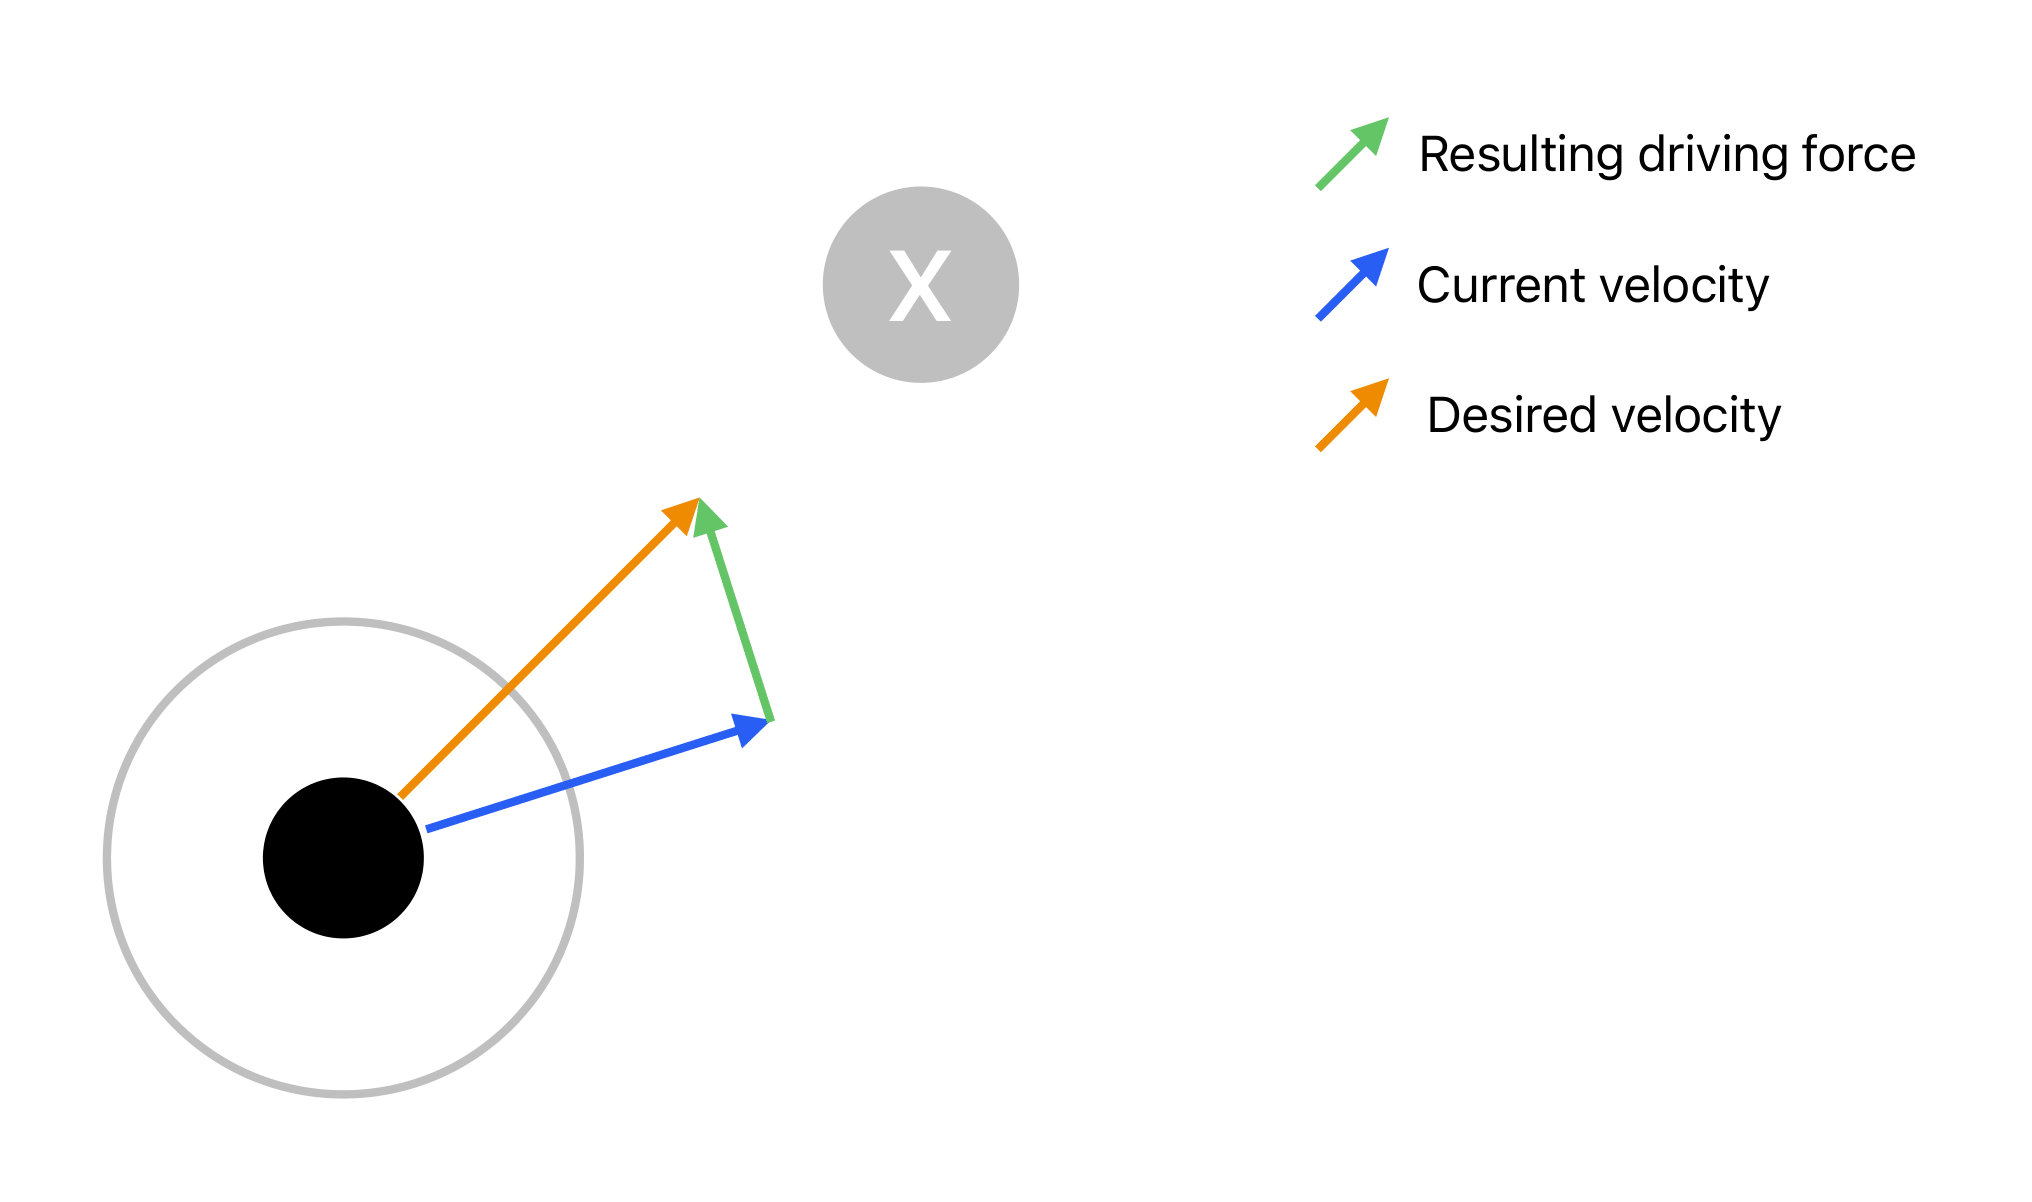
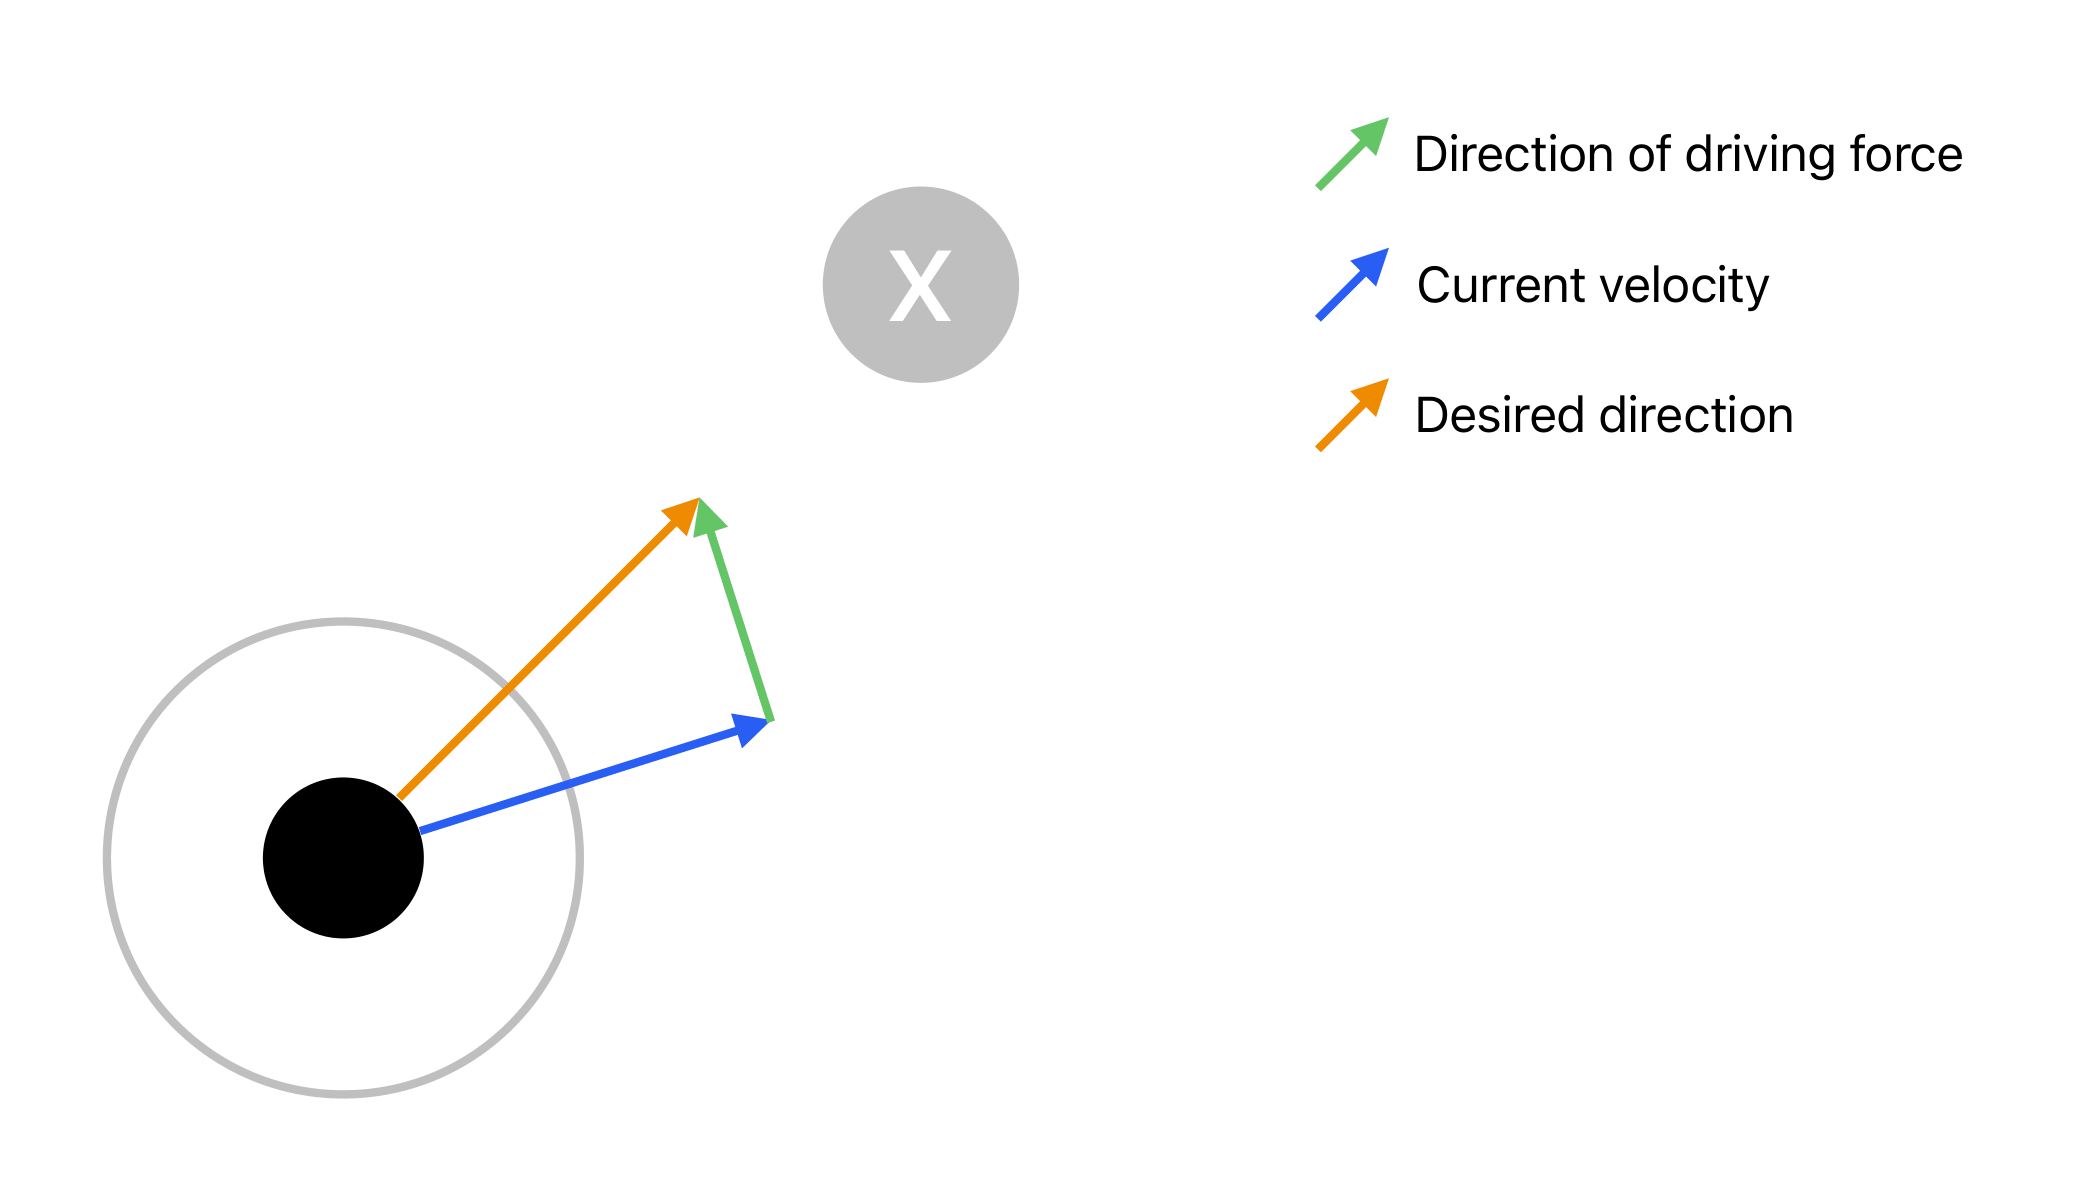
changes to Social force description

diff --git a/content/models/social_force_model/index.md b/content/models/social_force_model/index.md
@@ -25,13 +25,13 @@ $$ \overrightarrow{F_i^{\mathrm{drv}}}=\frac{v_i^0\overrightarrow{e_i^0} - \over
 {{< figure src="Driving_Force.png" caption="Driving Force acting on an agent." width="500" >}}
 
 In the figure above, the black dot represents an agent. Its radius is represented by the gray circle around it. The desired velocity ($v_i^0 \overrightarrow{e_i^0}$) is as big as its desired speed and is pointing in the desired direction towards a destination indicated by an X.
-The driving force of the agent results from the difference between the desired velocity and the current velocity.
+The driving force of the agent results from the difference between the desired velocity and the current velocity divided by $\tau$.
 
 
 ## Repulsive force
 Agents exert an exponentially increasing repulsive force on each other as their proximity decreases. Upon collision, not only do the pushing forces intensify further, but a frictional force also arises. This frictional force acts perpendicularly to the repulsive force, aligning with the direction of the difference in speed
 
-$$ \overrightarrow{F\_i^{\mathrm{rep}}} = \sum_{j} \overrightarrow{f_{ij}}$$
+$$ \overrightarrow{F\_i^{\mathrm{rep}}} = \sum_{j} \overrightarrow{f_{ij}}\text{.}$$
 
 $$\overrightarrow{f_{ij}} = [A_i \exp[(r_{ij} - d_{ij})/B_i] + kg(r_{ij} - d_{ij})] \overrightarrow{n_{ij}} + \kappa g(r_{ij} - d_{ij}) \Delta v\_{ji}^t \overrightarrow{t_{ij}} \text{.}$$
 
@@ -42,7 +42,7 @@ $$\phantom{......}\fbox{\phantom{.................} pushing \phantom{...........
 * $d_{ij}$ is the distance between $i$ and $j$
 * $A_i$, $B_i$, $k$ and $\kappa$ are constants (see [default values](#Default_values))
 * $g$  represents the distance between pedestrians when they are in contact, and is zero when there is no contact. 
-$g(x) =  \begin{cases} x \text{ if } x > 0 \\ \text{ else } 0 \end{cases}$
+$g(x)~=~\begin{cases} x \text{ if } x > 0 \\ \text{ else } 0 \end{cases}$
 * $ \overrightarrow{n_{ij}} = (n\_{ij}^1, n\_{ij}^2) = (\overrightarrow{\mathrm{pos}\_i} - \overrightarrow{\mathrm{pos}\_j})/d\_{ij} $ is the normalised vector from $j$ to $i$ 
 * $ \overrightarrow{t_{ij}} = (- n\_{ij}^2, n\_{ij}^1)$ is the tangent of $\overrightarrow{n_{ij}}$ which is perpendicular to it, rotated counterclockwise
 * $\Delta v\_{ji}^t = (\overrightarrow{v\_j} - \overrightarrow{v\_i}) \cdot \overrightarrow{t_{ij}}$ is the tangential velocity difference of $i$ and $j$
@@ -60,21 +60,21 @@ Obstacles exert a force on the agent similar to a static agent.
 Each line segment of an obstacle exerts force on the agent.
 The repulsive force is increases exponentially with decreasing distance. When the agent collides with the segment the repulsive forces are increased additionally. When colliding, a frictional force also occurs, which acts orthogonally to the repulsive force in the direction to the velocity of the agent
 
-$$ \overrightarrow{F\_i^{\mathrm{obst}}} = \sum_{O} \overrightarrow{f_{iO}}$$
+$$ \overrightarrow{F\_i^{\mathrm{obst}}} = \sum_{o} \overrightarrow{f_{io}\text{.}}$$
 
-$$\overrightarrow{f_{iO}} = [A_i \exp[(r_{i} - d_{iO})/B_i] + kg(r_{i} - d_{iO})] \overrightarrow{n_{iO}} + \kappa g(r_{i} - d_{iO}) (\overrightarrow{v\_{i}}\cdot\overrightarrow{t_{iO}}) \overrightarrow{t_{iO}} \text{.}$$
+$$\overrightarrow{f_{io}} = [A_i \exp[(r_{i} - d_{io})/B_i] + kg(r_{i} - d_{io})] \overrightarrow{n_{io}} + \kappa g(r_{i} - d_{io}) (\overrightarrow{v\_{i}}\cdot\overrightarrow{t_{io}}) \overrightarrow{t_{io}} \text{.}$$
 
 $$\phantom{.........}\fbox{\phantom{..................} pushing \phantom{.................}} \fbox{\phantom{..........} sliding \phantom{..........}}$$
 
-* $O$ is a segment of the obstacle
+* $o$ is a segment of the obstacle
 * $r_i$ is the radius agent $i$
-* $d_{iO}$ is distance from closest point on the segement to $i$
-* $\overrightarrow{n_{iO}} = (n\_{iO}^1, n\_{iO}^2) = (\overrightarrow{\mathrm{pos}\_i} - \overrightarrow{\mathrm{pos}\_O})/d\_{iO}$ the direction from $\overrightarrow{\mathrm{pos}\_O}$ the closest point on the segment to $i$
-* $ \overrightarrow{t_{iO}} = (- n\_{iO}^2, n\_{iO}^1)$ is the tangent of $\overrightarrow{n_{iO}}$ which is perpendicular to it, rotated counterclockwise
+* $d_{io}$ is distance from closest point on the segement to $i$
+* $\overrightarrow{n_{io}} = (n\_{io}^1, n\_{io}^2) = (\overrightarrow{\mathrm{pos}\_i} - \overrightarrow{\mathrm{pos}\_o})/d\_{io}$ the direction from $\overrightarrow{\mathrm{pos}\_o}$ the closest point on the segment to $i$
+* $ \overrightarrow{t_{io}} = (- n\_{io}^2, n\_{io}^1)$ is the tangent of $\overrightarrow{n_{io}}$ which is perpendicular to it, rotated counterclockwise
 * $v\_i$ is the velocity of $i$
 * $A_i$, $B_i$, $k$ and $\kappa$ are constants (see [default values](#Default_values))
 * $g$ represents the distance between a pedestrian and an obstacle segment when they are in contact, and is zero when there is no contact. 
- $g(x) =  \begin{cases}
+ $g(x)~=~\begin{cases}
                                       x \text{ if } x > 0 \\
                                       \text{ else } 0
                                   \end{cases}$
@@ -84,9 +84,9 @@ $$\phantom{.........}\fbox{\phantom{..................} pushing \phantom{.......
 
 the repulsive force originating from a segment of an obstacle acts from the point on the wall segment that is closest to the agent. This point is marked in magenta in the illustration above.
 
-{{< figure src="Sliding_Obstacle_Force.png" caption="Direction of the pushing and frictional forces acting on agents colliding with an obstacle segment"  width="800">}}
+{{< figure src="Sliding_Obstacle_Force.png" caption="Direction of the pushing and frictional forces acting on agents colliding with an obstacle segment."  width="800">}}
 
-When the minimum distance between an agent and a wall segment falls below the agent's radius, an additional frictional force comes into effect. This frictional force acts orthogonally to the repulsive force in the direction of the speed difference of the two agents.
+When the minimum distance between an agent and a wall segment falls below the agent's radius, an additional frictional force comes into effect. This frictional force acts orthogonally to the repulsive force in the direction of the velocity of the agent.
 
 ## Calculating new velocity and new position from forces
 With the definition of the forces affecting an individual, it is possible to calculate its new speed 

diff --git a/content/models/_index.md b/content/models/_index.md
@@ -12,4 +12,5 @@ on our
 {{< cards >}}
   {{< card link="collision_free_speed_model" title="Collision Free Speed" icon="plus-circle" >}}
   {{< card link="generalized_centrifugal_force_model" title="Generalized Centrifugal Force" icon="plus-circle" >}}
+  {{< card link="social_force_model" title="Social Force" icon="plus-circle" >}}
 {{< /cards >}}
